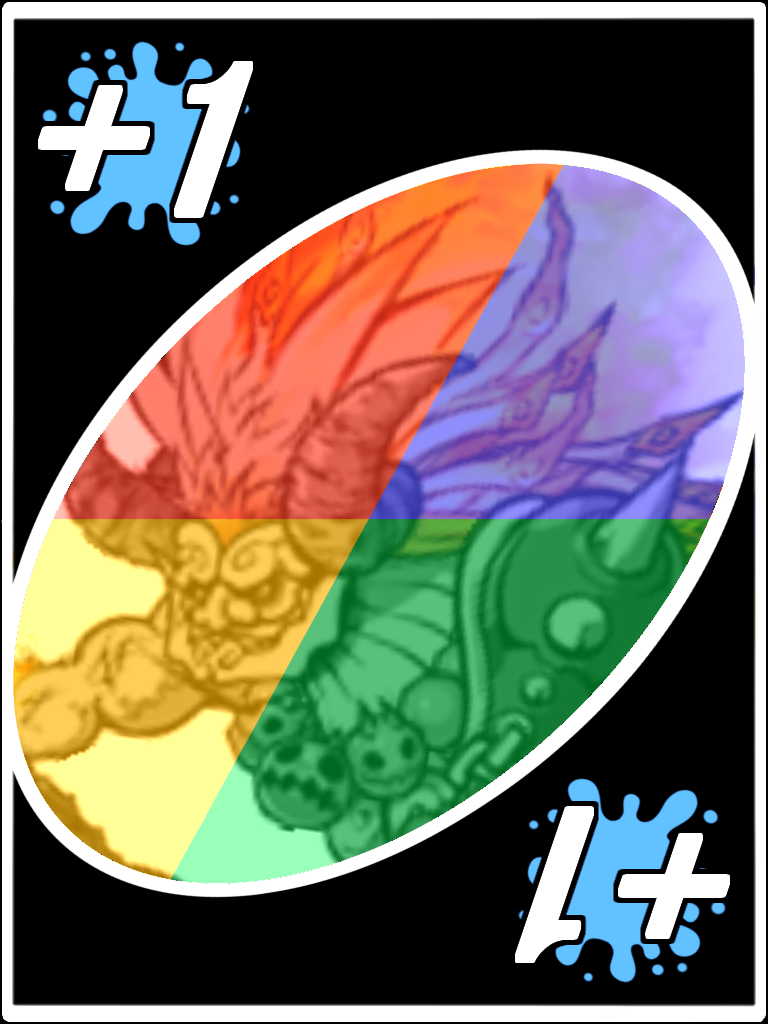
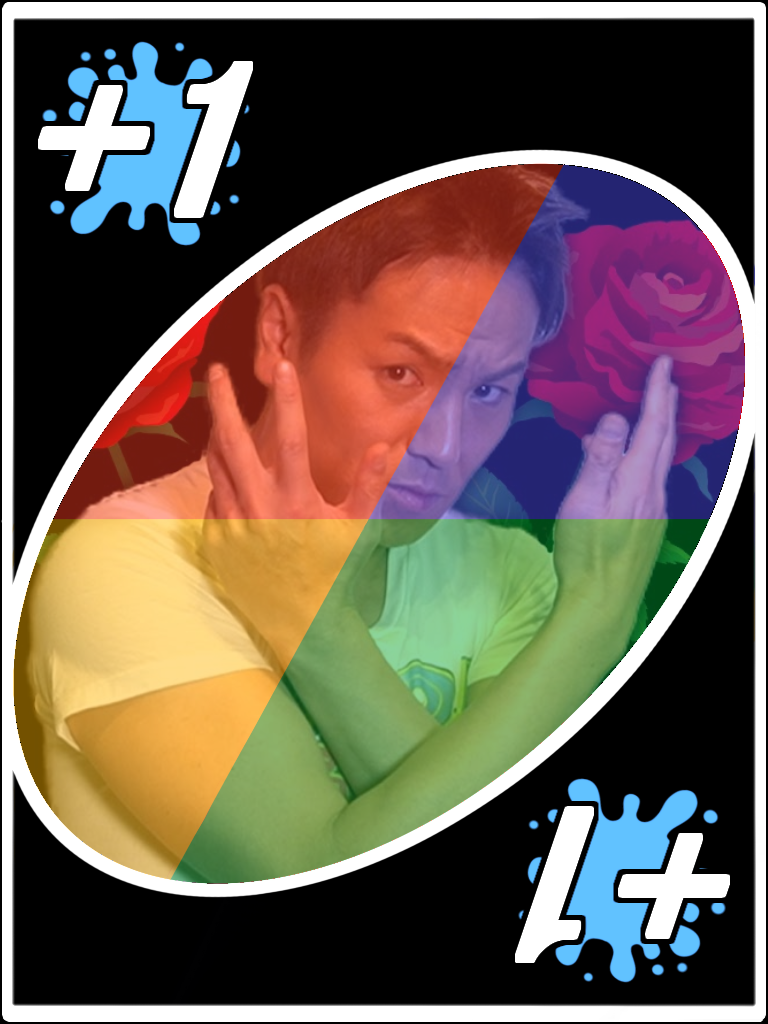
Update

diff --git a/src/uno/uno_func.py b/src/uno/uno_func.py
@@ -109,9 +109,9 @@ def translate_input(word):
         return "ワイルド"
     elif word in ["+4", "d4", "draw4", "ケイスケホンダ"]:
         return "ドロー4"
-    elif word in ["+1", "d1", "dobon1", "にゃんま1"]:
+    elif word in ["+1", "d1", "dobon1", "英孝1", "狩野英孝1"]:
         return "ドボン1"
-    elif word in ["+2", "d2", "dobon2", "にゃんま2"]:
+    elif word in ["+2", "d2", "dobon2", "英孝2", "狩野英孝2"]:
         return "ドボン2"
     else:
         trans1, trans2 = word[0], word[1:]
